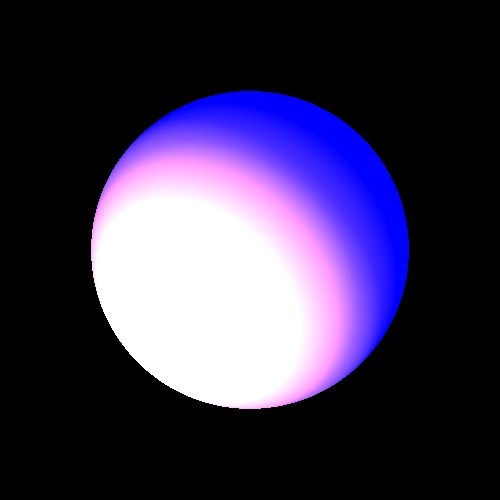
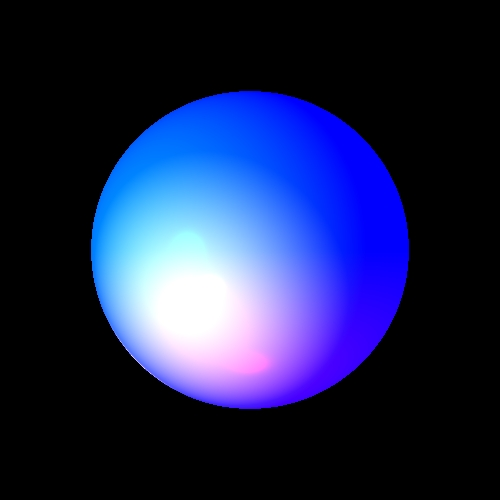
finish two tests 19/05/2020 16:25

Changed region(s): [[0.18, 0.18, 0.81, 0.84]]

diff --git a/UnitTests/UnitTests/LightsTests.java b/UnitTests/UnitTests/LightsTests.java
@@ -182,9 +182,19 @@ public class LightsTests {
                 new Sphere(new Color(java.awt.Color.BLUE), new Material(0.5, 0.5, 100), 50, new Point3D(0, 0, 50)));
 
         scene.addLights(
-                new SpotLight(new Color(500, 300, 0), new Point3D(-50, 50, -50), new Vector(1, -1, 2), 1, 0.00001, 0.00000001),
-                new DirectionalLight(new Color(500, 300, 0), new Vector(1, -1, 1)),
-                new PointLight(new Color(500, 300, 0), new Point3D(-50, 50, -50), 1, 0.00001, 0.000001));
+                new DirectionalLight(
+                        new Color(0, 300, 0),
+                        new Vector(1, 0, 1)),
+                new SpotLight(
+                        new Color(300, 0, 0),
+                        new Point3D(0, 70, -0),
+                        new Vector(0, -1, 0),
+                        1, 0.0001, 0.000005),
+                new PointLight(
+                        new Color(500, 300, 0),
+                        new Point3D(-30, 30, -30),
+                        1, 0.00001, 0.000001));
+
 
         ImageWriter imageWriter = new ImageWriter("sphereAllLights", 150, 150, 500, 500);
         Render render = new Render(imageWriter, scene);
@@ -211,9 +221,19 @@ public class LightsTests {
                         new Point3D(-150, 150, 150), new Point3D(-70, -70, 50), new Point3D(75, -75, 150)));
 
         scene.addLights(
-                new DirectionalLight(new Color(15, 15, 15), new Vector(0, 0, 1)),
-                new SpotLight(new Color(200, 20, 20), new Point3D(-50, 50, -50), new Vector(1, -1, 2), 1, 0.00001, 0.00000001),
-                new PointLight(new Color(0, 0, 0), new Point3D(50, 50, -50), 1, 0.00001, 0.000001));
+                new DirectionalLight(
+                        new Color(180, 50, 50),
+                        new Vector(-1, -1, 1)),
+                new SpotLight(
+                        new Color(50, 50, 300),
+                        new Point3D(0, 0, 115),
+                        new Vector(-1, 0, 2),
+                        1, 0.0001, 0.000005),
+                new PointLight(
+                        new Color(300, 300, 250),
+                        new Point3D(0, 0, 125),
+                        1, 0.0005, 0.0005)
+        );
 
         ImageWriter imageWriter = new ImageWriter("trianglesAllLights", 200, 200, 500, 500);
         Render render = new Render(imageWriter, scene);
